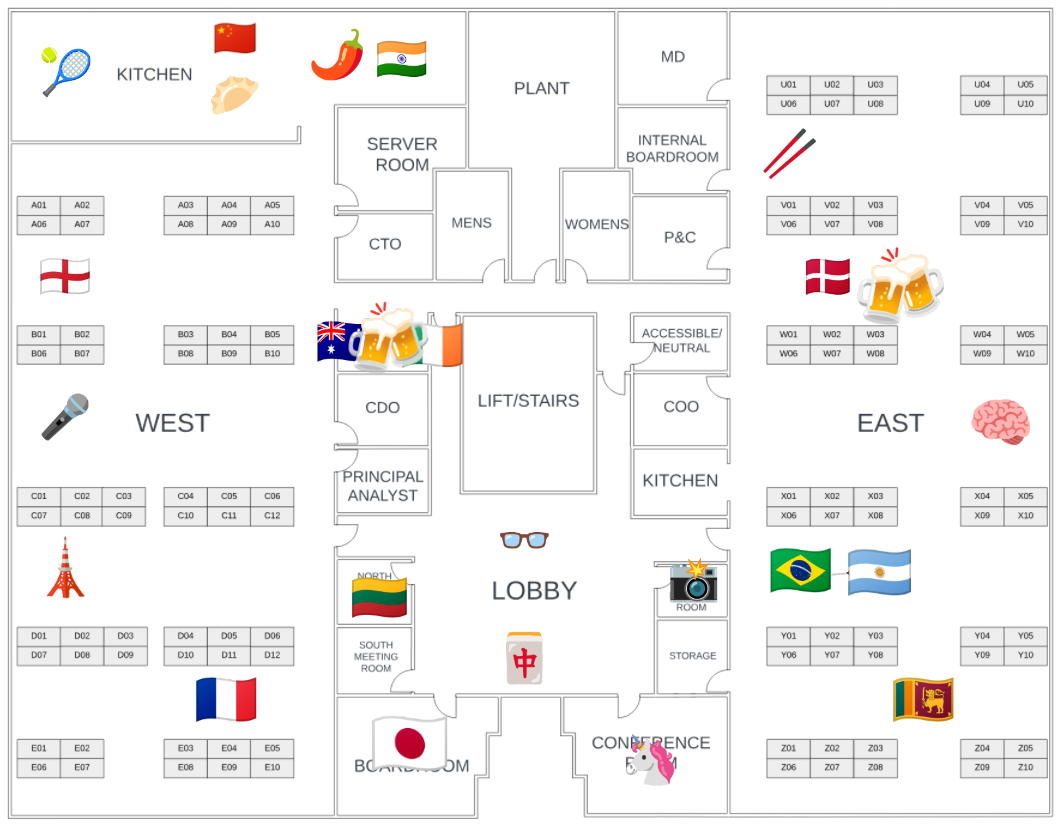
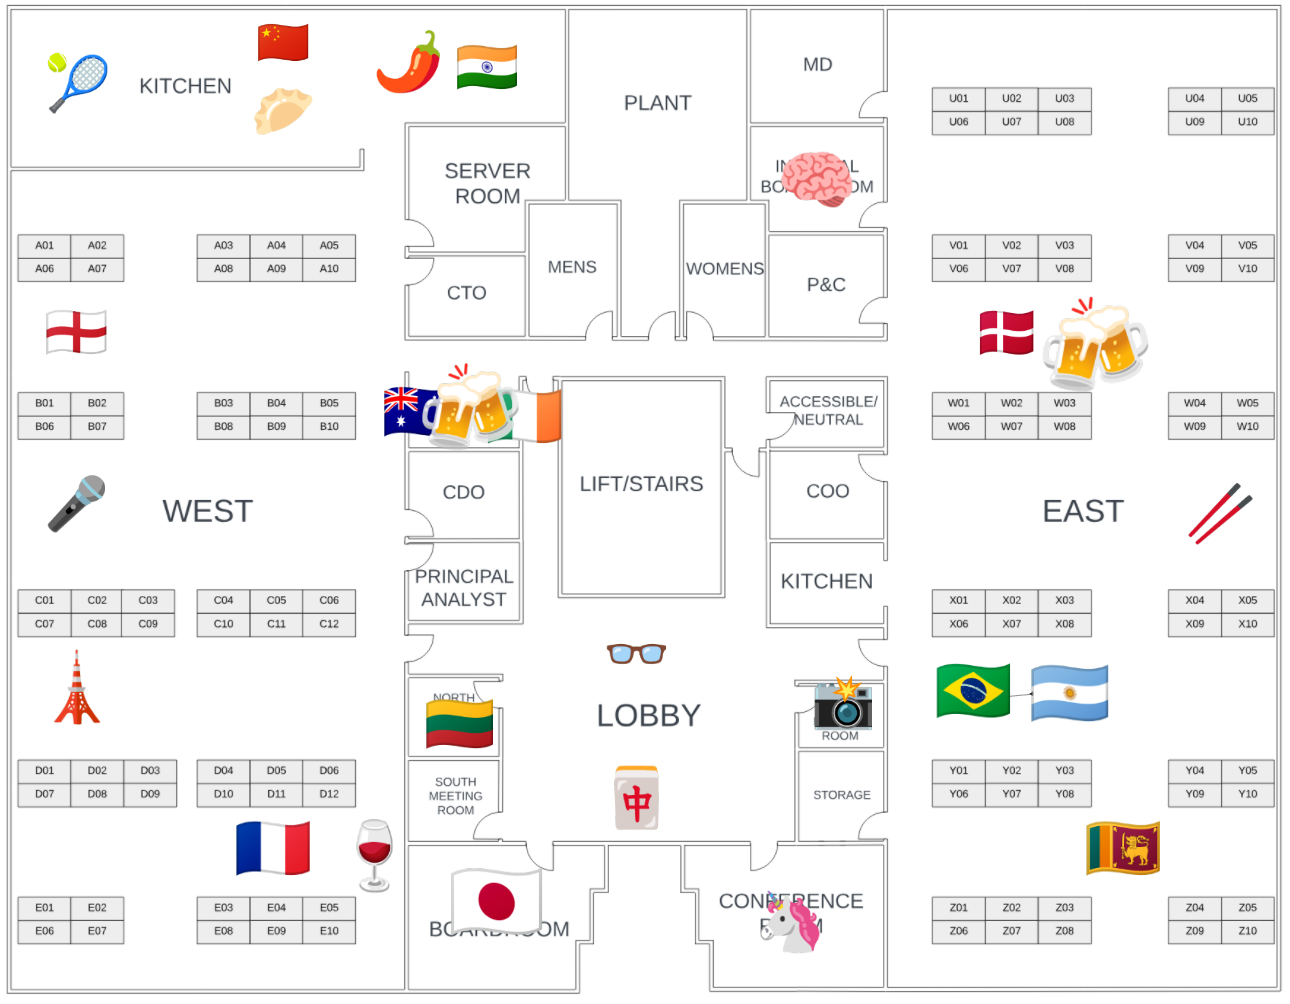
map update

diff --git a/activity_checklist.html b/activity_checklist.html
@@ -369,8 +369,11 @@
         <div class="section-title">🌍 Around the World Activities</div>
         
         <div class="activity-item">
-            <div class="emoji-column">🍹</div>
-            <div class="activity-name">Drinks station</div>
+            <div class="emoji-column">
+                <span>🍹</span>
+                <span>🍷</span>
+            </div>
+            <div class="activity-name">Drinks stations</div>
             <input type="checkbox" class="checkbox">
         </div>
         

diff --git a/activity_checklist_print.html b/activity_checklist_print.html
@@ -166,8 +166,11 @@
         <div class="section-title">🌍 Around the World Activities</div>
         
         <div class="activity-item">
-            <div class="emoji-column">🍹</div>
-            <div class="activity-name">Drinks station</div>
+            <div class="emoji-column">
+                <span>🍹</span>
+                <span>🍷</span>
+            </div>
+            <div class="activity-name">Drinks stations</div>
             <div class="checkbox"></div>
         </div>
         
